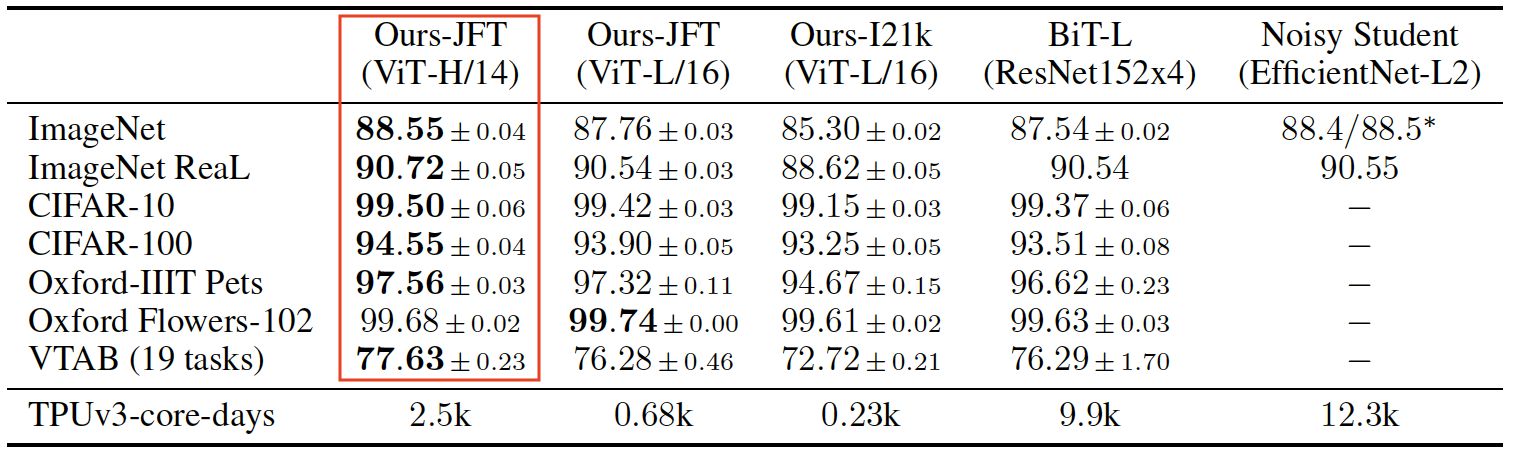
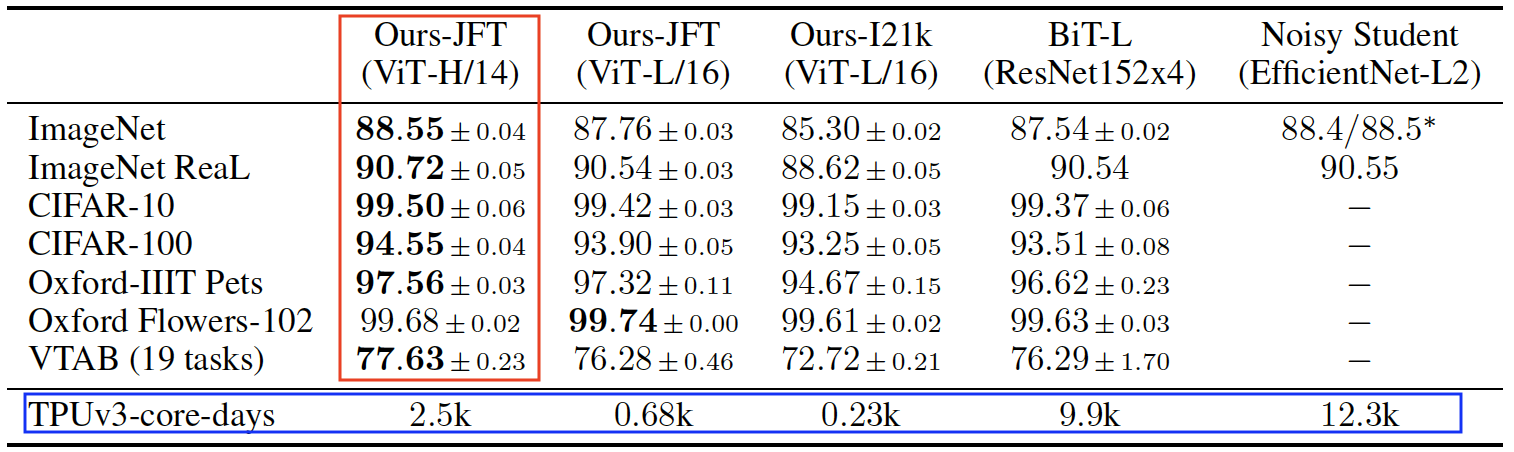
auto update

Changed region(s): [[0.0, 0.9292, 0.9624, 0.9602], [0.0, 0.8673, 0.9624, 0.8982]]

diff --git a/_posts/2025-05-07-Vit.md b/_posts/2025-05-07-Vit.md
@@ -1,5 +1,5 @@
 ---
-title: Vision Transformer 공부
+title: Vision Transformer 정리
 author: Hanjun
 date: 2025-05-07
 category: Jekyll
@@ -9,11 +9,13 @@ mermaid: true
 
 Paper : [An Image is worth 16x16 Words: Transformers for Image Recognition at Scale.](https://arxiv.org/pdf/2010.11929)
 
-[원문 번역][https://hanjun0126.github.io/2025-05-20-ViT원문번역.html]
+[원문 번역][https://hanjun0126.github.io/2025-05-07-ViT원문번역.html]
+
+논문 정리를 하면서 "내가 이해한게 맞나?"라는 생각을 많이 합니다. 분명, 잘못 정리된 부분도 있을 것이고, 부족한 내용도 있을 것입니다. 그럼에도 최대한 시작 하는 단계에서만큼은 오래걸리더라도, 이 논문에서 단순히 방법론만을 참고하지 않고, 연관 내용들도 정리할려고 했습니다. 잘못된 부분은 연락(email: hanjun0126@naver.com) 부탁드립니다.
 
 ## 요약
 
-**ViT(Vision Transformer)**는 2020년 구글의 "An Image is Worth 16x16 Words: Transformers for Image Recognition at Scale"논문을 통해 소개된 이미지 인식을 위한 딥러닝 모델이다. ViT는 CNN 모델의 합성곱 계층 방법을 사용하지 않고, 트랜스포머 모델에서 사용되는 셀프 어텐션(self-attention)을 적용하여 이미지 분류 과제를 수행한다. 합성곱 모델은 이미지를 분류하기 위해 지역 특징을 추출했다면 ViT는 셀프 어텐션을 사용해 전체 이미지를 한 번에 처리하는 방식으로 구현됐다. 결과적으로 ViT가 이미지 분류 과제에서 잘 작동함을 보여줬고, 많은 양의 데이터에서 사전 학습 후, 다른 크기의 이미지 데이터셋으로 전이 학습했을 때 기존의 CNN모델 기반 SOTA 결과들에 비해 적은 계산량으로 좋은 결과를 보여줬다.
+**ViT(Vision Transformer)**는 2020년 구글의 "**An Image is Worth 16x16 Words: Transformers for Image Recognition at Scale**"논문을 통해 소개된 이미지 인식을 위한 딥러닝 모델이다. ViT는 **CNN 모델의 합성곱 계층 방법을 사용하지 않고, 트랜스포머 모델에서 사용되는 셀프 어텐션(self-attention)을 적용하여 이미지 분류 과제를 수행**한다. 합성곱 모델은 이미지를 분류하기 위해 지역 특징을 추출했다면 ViT는 셀프 어텐션을 사용해 전체 이미지를 한 번에 처리하는 방식으로 구현됐다. 결과적으로 ViT가 이미지 분류 과제에서 잘 작동함을 보여줬고, 많은 양의 데이터에서 사전 학습 후, 다른 크기의 이미지 데이터셋으로 전이 학습했을 때 기존의 CNN모델 기반 SOTA 결과들에 비해 적은 계산량으로 좋은 결과를 보여줬다.
 
  
 
@@ -46,8 +48,6 @@ ViT는 Transformer처럼 이미지를 패치 단위로 나누어 1차원 토큰 
 <p align="center"><img src="../assets/gitbook/images/Vision_Transformer/Figure_7_position_embedding.png" style="zoom:50%;" /></p>
 
 위치 임베딩이 각 패치의 위치에 따라 이미지에서 어떤 부분과 유사한 지를 위의 그림에서 확인할 수 있다. 패치의 위치가 [1, 1] 일 때 이미지에서 가장 왼쪽 윗부분이 유사도가 높음을 알 수 있다. 이러한 위치 임베딩으로 위치 값을 보존한다.
-
-
 
 >   We use standard learnable 1D position embeddings, since we have not observed significant performance gains from using more advanced 2D-aware position embeddings.
 
@@ -211,7 +211,9 @@ CNN의 convolution 연산은 한 픽셀에 인접한 여러 픽셀에 대한 정
 </figure>
 ## 실험
 
-실험을 통해서 ResNet, ViT, 그리고 하이브리드 모델의 성능을 평가하였다. 
+### 평가 모델
+
+필자들은 실험을 통해서 ResNet, ViT, 그리고 하이브리드 모델의 성능을 평가하였다. 
 
 <figure>
     <p align="center"><img src="../assets/gitbook/images/Vision_Transformer/Table_1.png" style="zoom:50%;" />
@@ -232,22 +234,60 @@ CNN의 convolution 연산은 한 픽셀에 인접한 여러 픽셀에 대한 정
 
 
 
-<figure>
-    <figcaption>Table 3: Hyperparameter for training.</figcaption>
-    <p align="center"><img src="../assets/gitbook/images/Vision_Transformer/Table_3.png" style="zoom:50%;" /></p>
-</figure>
+### 데이터셋
 
-학습에 사용된 하이퍼파라미터는 Table 3에서 확인할 수 있다.
+<p align="center"><img src="../assets/gitbook/images/Vision_Transformer/Table_2_2.png" style="zoom:50%;" /></p>
 
--   optimizer: Adam for Pre-training and SGD for fine-tuning
--   batch size: 4096
+**사전 학습**에서는 아래의 데이터셋을 사용하였다.
+
+▸ ILSVRC-2012 ImageNet Dataset with 1k classes and 1.3M images
+
+▸ superset ImageNet-21k with 21k classes and 14M images
+
+▸ JFT with 18k classes and 303M high-resolution images
+
+**Downstream** 과제에는 아래의 데이터셋을 사용하였다.
+
+▸ ImageNet(validation sets), ImageNet with cleaned-up Real Labels, CIfar-10/100, Oxford-IIIT Pets, Oxford Flowers-102
+
+19개의 과제로 구성된 **VTAB**(Vision Transfer Ability Benchmark) 분류 평가 세트에 대한 평가도 수행하였다.
+
+▸ *Natural* : CIFAR와 같은 일상 이미지, *Specialized* : 의료 영상 및 위성 이미지 등 특수 도메인, *Structured* : 물체 위치 추정 등 기하학적 이해가 요구되는 작업
+
+>   Vision Transformer models pre-trained on the JFT-300M dataset outperform ResNet-based baselines on all datasets, while taking substantially less computational resources to pre-train.
+
+### 하이퍼파라미터
+
+ $\beta_1=0.9,\ \beta_2=0.999$ 를 사용한 Adam으로 ResNet을 포함한 모든 모델을 훈련하였다.
+
+<p align="center"><img src="../assets/gitbook/images/Vision_Transformer/Table_3.png" style="zoom:50%;" /></p>
+
+-   optimizer: Adam for Pre-training and SGD for fine-tuning(appendix d4)
+-   batch size: 4096, high weight decay: 0.1
 -   linear warmups + Learning Rate Decay (Cosine or Linear)
 
 
 
-<figure>
-    <p align="center"><img src="../assets/gitbook/images/Vision_Transformer/Table_2_1.png" style="zoom:50%;" />
-    <figcaption>Table 2: Comparison with state of the art on popular image classification benchmarks.</figcaption></p>
-</figure>
 
 
+### 결과
+
+각 과제에 대한 VTAB 성능 분석
+
+
+
+
+
+
+
+ViT-H/14, ViT-L/16, 그리고 sota CNN 기법의 모델들을 비교하였다. 모든 모델은 TPUv3 환경에서 학습되었고, 모델을 사전 학습하는데 걸린 TPUv3-core-days 수를 확인할 수 있다. 이는 사용된 TPUv3 코어 수(칩당 2코어)에 학습 일수를 곱한 값이다.
+
+<p align="center"><img src="../assets/gitbook/images/Vision_Transformer/Table_2_1.png" style="zoom:50%;" /></p>
+
+BiT-L 모델이 어떤 데이터에서 사전 학습했는지와 관계없이 JFT 데이터셋으로 학습한 ViT-L/16 모델이 모든 과제에서 성능을 넘는다. 더 큰 모델인 ViT-H/14 모델은 이보다 더 높은 성능을 가졌다. 추가적으로 학습에 사용된 계산량이 기존 sota보다 적게 들었다. ImageNet-21k에서 사전 학습한 ViT-L/16 모델 또한 모든 과제에서 좋은 결과를 보여준다.
+
+<p align="center"><img src="../assets/gitbook/images/Vision_Transformer/Figure_2.png" style="zoom:50%;" /></p>
+
+각 과제에 대한 VTAB 성능 분석은 위와 같은데, 마찬가지로 ViT-H/14 모델이 다른 모델과 비교했을 때 높은 정확도를 보여주고 있다.
+
+필자들은 학습에 사용된 모델만이 사전 학습의 효율성을 결정 짓는 것이 아니라 파라미터(training schedule, optimizer, weight decay) 또한 관계가 있다는 점에 주목한다.(section4.4)
